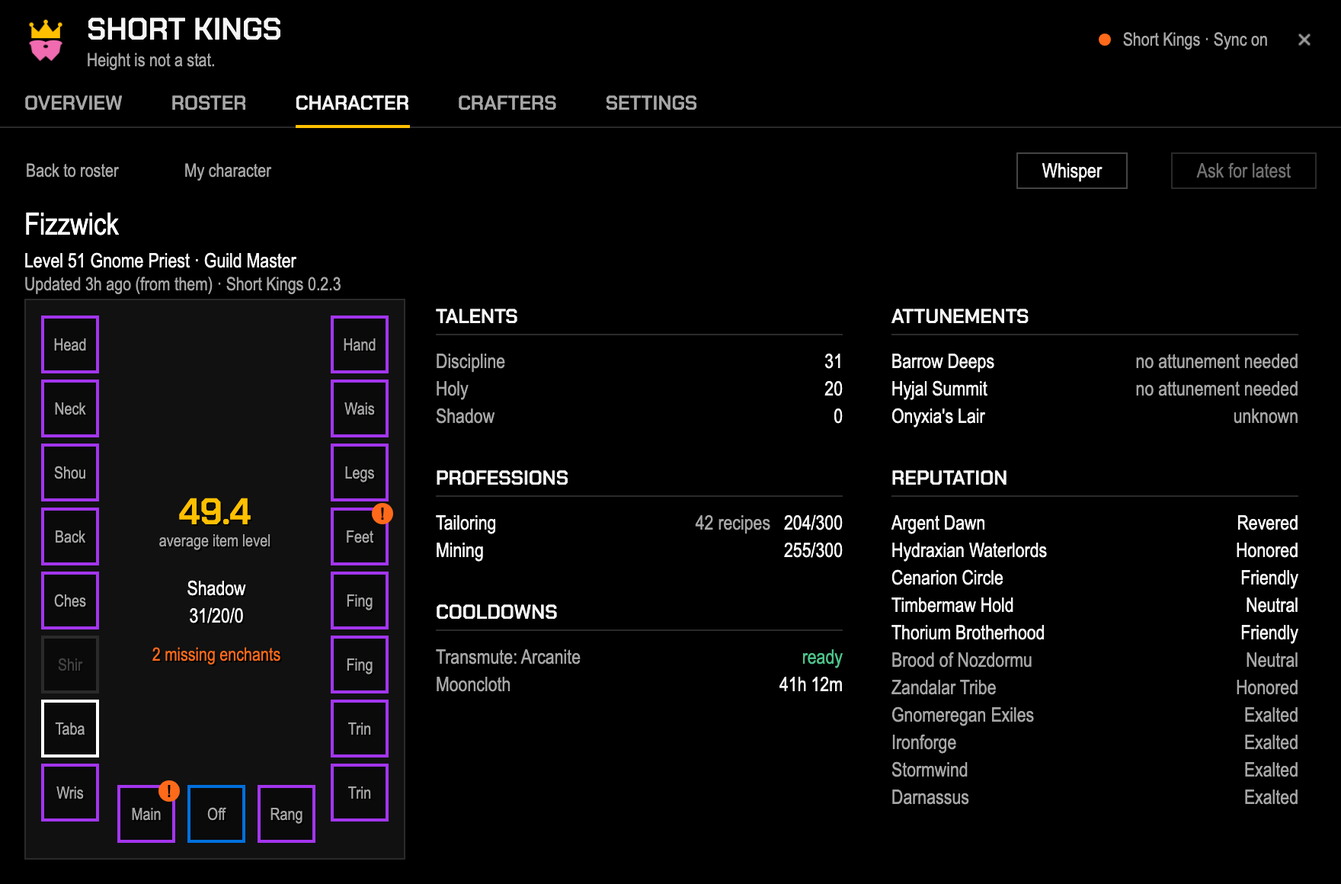
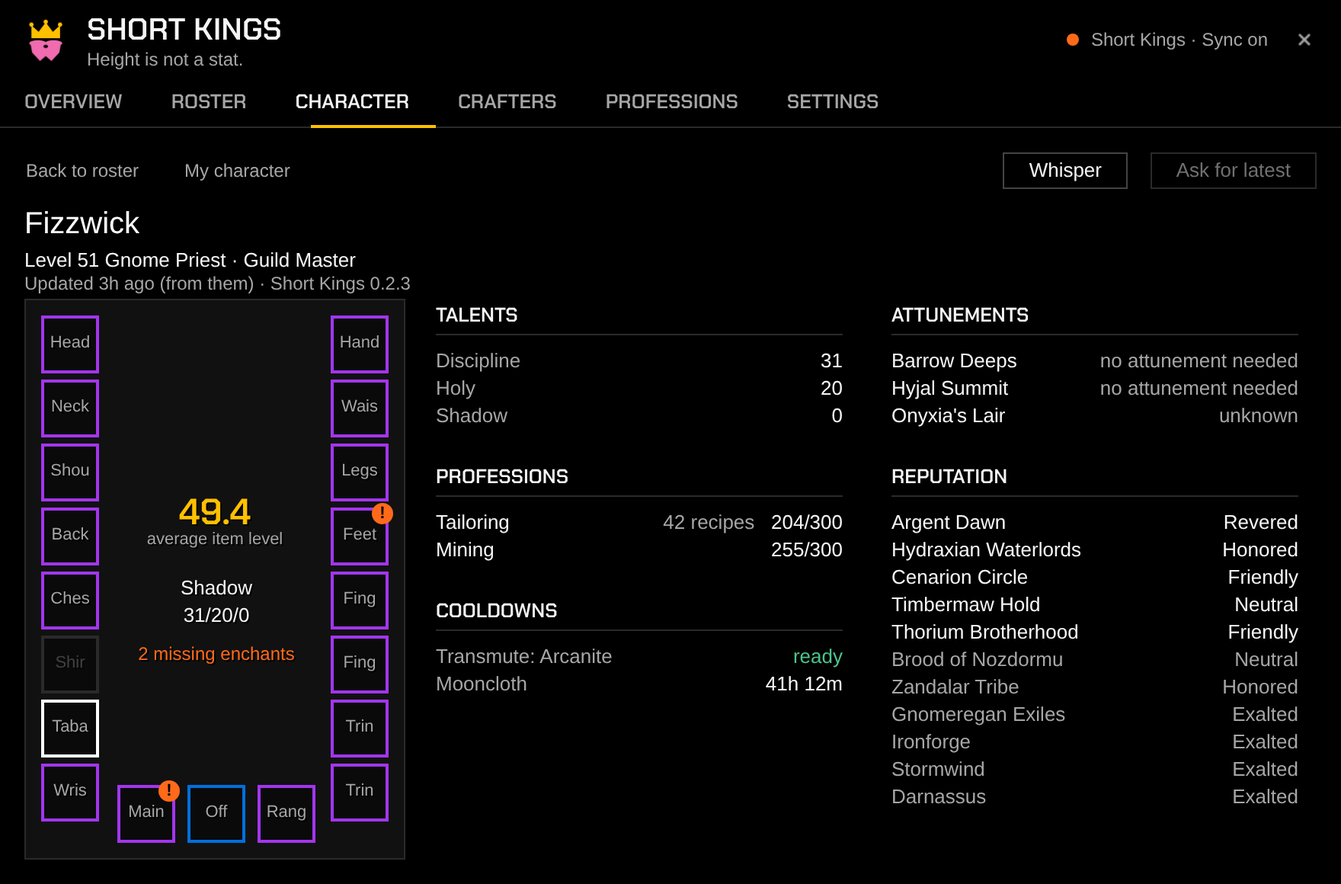
v0.3.0 docs, preview and pictures: Professions tab, reagents, favourites
Claude-Session: https://claude.ai/code/session_01A7mubKGBR11Avqu3i7SrV1

diff --git a/preview/index.html b/preview/index.html
@@ -280,7 +280,7 @@ const SLOT = { 1: "Head", 2: "Neck", 3: "Shoulder", 15: "Back", 5: "Chest", 4: "
 // ---------------------------------------------------------------- state
 const S = { view: "after", screen: "overview", data: "full", scale: 1, open: true, reduce: false, sort: { key: "seen", desc: false },
   search: "", raid: "none", attFilter: "all", groupAlts: true, crafterQuery: "arcanite", recipe: 0, charIdx: 1, menuOpen: false,
-  copy: false, checks: { sync: true, gear: true, recipes: true, tips: true, feed: true, minimap: true, reduce: false, debug: false } };
+  copy: false, checks: { sync: true, gear: true, recipes: true, tips: true, feed: true, nudges: true, minimap: true, reduce: false, debug: false } };
 let G = makeGuild("full");
 
 // ---------------------------------------------------------------- helpers
@@ -495,6 +495,65 @@ function crafters() {
     <div class="side" style="left:492px;right:0;top:36px;bottom:0">${side}</div>`;
 }
 
+// ---------------------------------------------------------------- professions (v0.3)
+const PROF_BOARD = [
+  ["Alchemy", 6, 3, 2, 300, 1, ""], ["Blacksmithing", 4, 2, 1, 300, 2, "Weaponsmith 2, Armorsmith 1"], ["Enchanting", 5, 2, 3, 300, 0, ""],
+  ["Engineering", 3, 1, 1, 300, 4, "Gnomish Engineer 2, Goblin Engineer 1"], ["Leatherworking", 2, 0, 0, 265, 9, "Tribal Leatherworking 1"],
+  ["Tailoring", 5, 2, 2, 300, 0, ""], ["Herbalism", 7, 3, 3, 300, null, ""], ["Mining", 6, 4, 2, 300, null, ""], ["Skinning", 0, 0, 0, 0, null, ""],
+  ["Cooking", 9, 2, 4, 300, 3, ""], ["First Aid", 11, 6, 4, 300, 12, ""], ["Fishing", 4, 1, 1, 275, null, ""]];
+const PROF_CRAFTERS = [["Brambletoe", "MAGE", 300, "addon", "", 0, 1], ["Copperpot", "PRIEST", 300, "online", "", 3, 0], ["Dorna", "WARRIOR", 285, "offline", "alt of Thalgrim", 9, 0],
+  ["Fizzwick", "ROGUE", 262, "offline", "", 21, 0], ["Nettle", "DRUID", 240, "addon", "", 1, 0], ["Pockets", "WARLOCK", 150, "offline", "", null, 0]];
+const PROF_RECIPES = [["Elixir of the Mongoose", "#ffffff", 4], ["Flask of Distilled Wisdom", "#ffffff", 1], ["Flask of the Titans", "#ffffff", 1, 1],
+  ["Greater Fire Protection Potion", "#ffffff", 3], ["Major Healing Potion", "#ffffff", 6], ["Major Mana Potion", "#ffffff", 5, 1], ["Transmute: Arcanite", "#ffffff", 2],
+  ["Transmute: Undeath to Water", "#ffffff", 1], ["Elixir of Giants", "#ffffff", 2]].sort((a, b) => a[0] < b[0] ? -1 : 1);
+const PROF_CDS = [["Transmute: Arcanite", "Copperpot", "PRIEST", "online", 0, "now", 0], ["Mooncloth", "Fizzwick", "ROGUE", "offline", 0, "3d ago", 1],
+  ["Transmute: Arcanite", "Brambletoe", "MAGE", "addon", 2.5, "now", 0], ["Mooncloth", "Nettle", "DRUID", "addon", 47, "4m ago", 0], ["Transmute: Undeath to Water", "Dorna", "WARRIOR", "offline", 70, "2d ago", 1]];
+const star = (on) => on ? `<span class="beard">&#9733;</span> ` : "";
+const recAgo = (d) => d === null ? DASH : `<span class="${d > 7 ? "spark" : "dim"}">${d === 0 ? "now" : d + "d ago"}</span>`;
+function professions() {
+  const none = !G.name || S.data === "empty";
+  const chips = (items, on) => items.map((x) => `<span class="chip ${x[0] === on ? "on" : ""}">${x[1]}</span>`).join("");
+  const nudge = `<div class="abs spark" style="left:0;right:0;top:36px;font-size:12px">Your Tailoring went from 240 to 262 since you last opened it. Open the window to update your recipes.</div>`;
+  if (S.prof) {
+    const ccell = (k, c) => c.key === "n" ? dot(k[3] === "addon" ? "good" : k[3] === "online" ? "text" : "faint") + star(k[6]) + `<span style="color:${CLASS[k[1]]}">${esc(k[0])}</span>${k[4] ? ` <span class="dim">&nbsp;${k[4]}</span>` : ""}`
+      : c.key === "s" ? k[2] : c.key === "p" ? "" : c.key === "r" ? recAgo(k[5]) : btn("Whisper", "small" + (k[3] === "offline" ? " disabled" : ""));
+    const rcell = (r, c) => c.key === "n" ? star(r[3]) + `<span style="color:${r[1]}">${esc(r[0])}</span>` : r[2] === 1 ? `<span class="spark">1</span>` : r[2];
+    return `${btn("All professions", "", 'style="position:absolute;left:0;top:0"')}<div class="abs" style="left:130px;top:3px;font-size:15px">Alchemy</div>
+      <div class="abs dim ell" style="right:0;top:4px;font-size:12px">6 characters, 2 online · ${PROF_RECIPES.length} recipes</div>
+      ${list([{ key: "n", t: "Character", w: 152 }, { key: "s", t: "Skill", w: 50, r: 1 }, { key: "p", t: "Speciality", w: 92 }, { key: "r", t: "Recipes", w: 70, r: 1 }, { key: "b", t: "", w: 64 }],
+        PROF_CRAFTERS, ccell, { click: true, style: "left:0;top:36px;bottom:0;width:440px" })}
+      <div class="abs" style="left:456px;top:36px;display:flex;gap:4px">${chips([["all", "All"], ["one", "Only one crafter"], ["fav", "Favourites"], ["nobody", "Nobody knows"]], "all")}</div>
+      ${list([{ key: "n", t: "Recipe", w: 290 }, { key: "c", t: "Crafters", w: 90, r: 1 }], PROF_RECIPES, rcell, { click: true, style: "left:456px;right:0;top:68px;bottom:0" })}`;
+  }
+  if (S.profView === "cooldowns") {
+    const cell = (r, c) => c.key === "n" ? esc(r[0]) : c.key === "w" ? dot(r[3] === "addon" ? "good" : r[3] === "online" ? "text" : "faint") + `<span style="color:${CLASS[r[2]]}">${esc(r[1])}</span>`
+      : c.key === "l" ? (r[4] === 0 ? `<span class="good">Ready</span>` : r[4] < 24 ? `${Math.floor(r[4])}h ${Math.round((r[4] % 1) * 60)}m` : `${Math.floor(r[4] / 24)}d ${Math.round(r[4] % 24)}h`)
+      : c.key === "a" ? `<span class="${r[6] ? "spark" : "dim"}">${r[5]}</span>` : btn("Whisper", "small" + (r[3] === "offline" ? " disabled" : ""));
+    return `<div class="abs" style="left:0;top:0;display:flex;gap:4px">${chips([["board", "Guild"], ["cooldowns", "Cooldowns"]], "cooldowns")}</div>
+      <div class="abs dim ell" style="right:0;top:4px;font-size:12px">2 ready · 5 cooldowns</div>
+      ${list([{ key: "n", t: "Cooldown", w: 270 }, { key: "w", t: "Crafter", w: 190 }, { key: "l", t: "Ready in", w: 110, r: 1 }, { key: "a", t: "As of", w: 140, r: 1 }, { key: "b", t: "", w: 126 }],
+        none ? [] : PROF_CDS, cell, { click: true, empty: "No profession cooldowns yet.", style: "left:0;top:36px;bottom:0;right:0" })}`;
+  }
+  const cell = (r, c) => {
+    const nobody = r[1] === 0;
+    switch (c.key) {
+      case "n": return nobody ? `<span class="dim">${r[0]}</span>` : r[0];
+      case "c": return nobody ? `<span class="spark">nobody</span>` : r[1];
+      case "m": return nobody ? DASH : r[2];
+      case "o": return nobody ? DASH : r[3] ? `<span class="good">${r[3]}</span>` : `<span class="dim">0</span>`;
+      case "t": return nobody ? DASH : r[4];
+      case "s": return recAgo(r[5]);
+      default: return `<span class="dim">${r[6]}</span>`;
+    }
+  };
+  return `<div class="abs" style="left:0;top:0;display:flex;gap:4px">${chips([["board", "Guild"], ["cooldowns", "Cooldowns"]], "board")}</div>
+    <div class="abs dim ell" style="right:0;top:4px;font-size:12px">${none ? "" : "1 profession nobody has"}</div>
+    ${none ? "" : nudge}
+    ${list([{ key: "n", t: "Profession", w: 170 }, { key: "c", t: "Characters", w: 88, r: 1 }, { key: "m", t: "At 300", w: 70, r: 1 }, { key: "o", t: "Online", w: 70, r: 1 },
+      { key: "t", t: "Top skill", w: 80, r: 1 }, { key: "s", t: "Latest recipes", w: 112, r: 1 }, { key: "x", t: "Specialisations", w: 246 }],
+      none ? PROF_BOARD.map((r) => [r[0], 0, 0, 0, 0, null, ""]) : PROF_BOARD, cell, { click: true, style: `left:0;top:${none ? 36 : 56}px;bottom:0;right:0` })}`;
+}
+
 // ---------------------------------------------------------------- settings
 function settings() {
   const err = S.data === "error";
@@ -503,7 +562,8 @@ function settings() {
   const head = (t) => { h += `<div class="block" style="left:0;top:${y}px;width:${L}px"><div class="bhead"><span class="h display">${t}</span></div></div>`; y += 32; };
   const ck = (k, label) => { h += check(k, label, `position:absolute;left:0;top:${y + 4}px`); y += 28; };
   head("Sharing"); ck("sync", "Share and receive guild data (sync)"); ck("gear", "Share my gear and talents"); ck("recipes", "Share my recipes and cooldowns");
-  y += 8; head("Display"); ck("tips", "Show guild crafters in item tooltips"); ck("feed", "Record guild milestones (Overview)"); ck("minimap", "Show minimap button");
+  y += 8; head("Display"); ck("tips", "Show guild crafters in item tooltips"); ck("feed", "Record guild milestones (Overview)");
+  ck("nudges", "Remind me to reopen profession windows"); ck("minimap", "Show minimap button");
   ck("reduce", "Reduce motion"); ck("debug", "Debug logging in chat");
   h += `<div class="abs" style="left:0;top:${y + 4}px">Window size</div>`; y += 22;
   h += `<div class="abs" style="left:0;top:${y}px;display:flex;align-items:center;gap:4px">${[70, 80, 90, 100, 110, 120, 130].map((v) =>
@@ -527,8 +587,8 @@ function settings() {
 }
 
 // ---------------------------------------------------------------- window
-const TABS = [["overview", "Overview"], ["roster", "Roster"], ["character", "Character"], ["crafters", "Crafters"], ["settings", "Settings"]];
-const RENDER = { overview, roster, character, crafters, settings };
+const TABS = [["overview", "Overview"], ["roster", "Roster"], ["character", "Character"], ["crafters", "Crafters"], ["professions", "Professions"], ["settings", "Settings"]];
+const RENDER = { overview, roster, character, crafters, professions, settings };
 function windowHTML() {
   const err = S.data === "error", paused = err || !G.name || S.data === "loading";
   const why = err ? "combat" : "roster not loaded";
@@ -656,7 +716,7 @@ function seg(id) {
 try { Object.assign(S, JSON.parse(localStorage.getItem("skPreview") || "{}")); } catch (e) { /* ignore */ }
 // ?screen=roster&data=worst&view=before&raid=ony  (and &shot=1 for the README pictures: window only, no chrome)
 const Q = new URLSearchParams(location.search);
-for (const k of ["screen", "data", "view", "raid"]) if (Q.get(k)) S[k] = Q.get(k);
+for (const k of ["screen", "data", "view", "raid", "prof", "profView"]) if (Q.get(k)) S[k] = Q.get(k);
 const SHOT = Q.get("shot");
 if (SHOT) {
   document.body.classList.add("shot"); S.view = SHOT === "compare" ? "before" : "after"; S.reduce = true;

diff --git a/docs/mockups/render.js b/docs/mockups/render.js
@@ -21,6 +21,9 @@ const SHOTS = {
   attunement: ["shot=1&screen=roster&data=full&raid=ony", W, H],
   character: ["shot=1&screen=character&data=full", W, H],
   crafters: ["shot=1&screen=crafters&data=full", W, H],
+  professions: ["shot=1&screen=professions&data=full", W, H],
+  "professions-one": ["shot=1&screen=professions&data=full&prof=171", W, H],
+  cooldowns: ["shot=1&screen=professions&data=full&profView=cooldowns", W, H],
   settings: ["shot=1&screen=settings&data=full", W, H],
   "before-after": ["shot=compare&screen=overview&data=full", 2 * W + 72, H + 84],
   palette: ["shot=palette", 1200, 484],

diff --git a/README.md b/README.md
@@ -42,7 +42,8 @@
 | 🏰 **Overview** | The guild at a glance: who's around, raid readiness, data health, professions, recipes and recent milestones |
 | 👥 **Roster** | The whole guild in one sortable, searchable list, with alts folded under mains and a raid-attunement view |
 | 🛡 **Character** | Anyone's gear, talents, professions, cooldowns, attunements and reputations |
-| ⚒ **Crafters** | Search an item or recipe and see who in the guild can make it, online first |
+| ⚒ **Crafters** | Search an item or recipe and see who in the guild can make it, online first, with its reagents and your bag counts |
+| 🧪 **Professions** | Every profession in the guild, each profession's crafters and recipes, everyone's cooldowns, specialisations and favourites |
 | ⚙ **Settings** | Sharing and privacy switches, display options, window size, tools and a live status read-out |
 | 🧨 **Everywhere** | `/sk`, a minimap button, "Crafted by" lines on item tooltips, chat reminders and a copyable debug report |
 
@@ -106,13 +107,30 @@ Onyxia's Lair, Forever's first wave) to see who's attuned:
 - **Results** (up to 200): the item's icon, its name in quality colour, the profession, and how many crafters there are (and how many online). Hover for the real item tooltip; click to pick it.
 - **Side panel:** every crafter, online first, then by skill, with a status dot, their skill, *on Gillybean* when they're on an alt (Whisper goes there) or *alt of X*, and a **Whisper** button. Long item names wrap rather than being cut off.
 - **Post to guild chat** (gold) types "[Item] can be made by: A, B, C" into your chat box; you press Enter. **Copy** gives the list as plain text.
+- **Reagents** under the crafter list: icon, name, how many, and how many you have in your bags (green when you have enough). Read from your own game, so they show once you've opened that profession's window; never sent to anyone.
+- **Favourites:** right-click a result or a crafter to star it (a pink star). The **Favourites** chip lists only starred recipes; starred crafters come first among the same status. Saved on your computer only.
 - Recipes come from each crafter's last visit to their profession window. While item names load from the game, placeholder rows show where results will appear.
+
+### 🧪 Professions
+<p align="center"><img src="docs/images/professions.png" alt="Professions tab, guild board" width="100%"></p>
+
+- **Guild board:** one row per profession (crafting first, then gathering, then Cooking, First Aid and Fishing), including ones **nobody** has. Characters, how many are at 300, how many online, the top skill, when recipes were last recorded (orange after a week) and specialisations. Click a row to open that profession.
+- **A reminder line** when your skill has gone up 15 or more since you last opened that profession's window ("Your Tailoring went from 240 to 262…"). In chat it says it at most once every three days; you can turn that off in Settings.
+
+<p align="center"><img src="docs/images/professions-one.png" alt="One profession" width="100%"></p>
+
+- **One profession:** everyone with it (status dot, star, *alt of X*, skill, specialisation, "recipes recorded 3d ago" in orange after a week, **Whisper**) and every recipe known in the guild with its crafter count (a lone crafter in orange). Filters: **All**, **Only one crafter**, **Favourites**, and **Nobody knows** (recipes the game's window lists that nobody has learned, shown only once the game has listed some). Hover a recipe for its reagents; click to open it in Crafters; right-click to star it.
+
+<p align="center"><img src="docs/images/cooldowns.png" alt="Cooldown board" width="100%"></p>
+
+- **Cooldowns:** everyone's profession cooldowns (transmutes, Mooncloth…), ready first, then soonest. Shows who, how long, and **as of** when we last heard from them (orange after a day: a cooldown only updates while its owner is online). **Whisper** when they're on.
+- **Specialisations** (Gnomish/Goblin Engineer, Dragonscale/Elemental/Tribal Leatherworking, Armorsmith/Weaponsmith and the master smiths) are read from your spellbook. A spell only counts when the game's own name for it matches, so a wrong ID can never mislabel anyone.
 
 ### ⚙ Settings
 <p align="center"><img src="docs/images/settings.png" alt="Settings tab" width="100%"></p>
 
 - **Sharing:** *Share and receive guild data* (sync on or off), *Share my gear and talents*, *Share my recipes and cooldowns*.
-- **Display:** *Show guild crafters in item tooltips*, *Record guild milestones*, *Show minimap button*, **Reduce motion**, *Debug logging in chat*.
+- **Display:** *Show guild crafters in item tooltips*, *Record guild milestones*, *Remind me to reopen profession windows*, *Show minimap button*, **Reduce motion**, *Debug logging in chat*.
 - **Window size:** 70% to 130%.
 - **Tools:** *Rescan my character*, *Sync now*, *Reset window position*, *Debug report*.
 - **Status:** version, guild, whether sync is running or paused (and why), whether you may send, message counts, Lua errors caught, when your data last updated, and which profession windows you still need to open.
@@ -123,7 +141,7 @@ Onyxia's Lair, Forever's first wave) to see who's attuned:
 - **The window** opens on the Overview the first time, then on your last tab. Drag it by the title bar; it remembers where you left it. **Esc** closes it. The title bar shows the crest, your guild and the sync status.
 - **Automatic collection** on every character you play: gear, item level, talents, reputations, professions, recipes (when you open the profession window), cooldowns, attunements and your other characters.
 - **"Crafted by" on item tooltips:** hover any item to see "Short Kings: Bramble (online), Dabble +2 more". Online crafters first, at most three names.
-- **Chat reminders** for profession windows still to open, a newer Short Kings, and trial accounts that can't share.
+- **Chat reminders** for profession windows still to open (and, rarely, ones to reopen after your skill went up), a newer Short Kings, and trial accounts that can't share.
 - **`/sk debug`** opens a copyable report of what the addon can see, starting with the live-client checks and the profession checks for v0.3 (unlearned recipes, recipe categories, reagents, specialisations), and ending with the last Lua errors it caught. **Send it when something looks wrong.**
 
 ### 🔒 Under the hood
@@ -307,7 +325,7 @@ The full design, data format and merge rules are in [PLAN.md](PLAN.md).
 - [x] **v0.2.5**: first in-game test (5 Nov): sync switched back on, enchant check at level 60, security fixes
 - [x] **v0.2.6**: hotfix, no more false "send errors"
 - [x] **v0.2.7**: `/sk debug` profession checks (what the game shows, before v0.3 is built)
-- [ ] **v0.3 Professions**: guild coverage, crafters and recipes per profession, cooldown board, reagents, favourites
+- [ ] **v0.3.0 Professions** (built, waiting for the in-game test): guild coverage, crafters and recipes per profession, cooldown board, specialisations, reagents, favourites, reminders
 - [ ] **In-game test round** with guildmates (TESTING.md), then fixes
 - [ ] **v0.4**: **Raids**, built on the guild calendar: sign-ups, roles, line-up with attunement and readiness, reminders, invite-all (before raids open on 9 Dec)
 - [ ] **v0.5**: craft requests, a short status line, lockout board

diff --git a/CLAUDE.md b/CLAUDE.md
@@ -145,7 +145,9 @@ Core/     Init (events, timers, modules), Log (+ error capture: SK:Safe,
           SK:RecordError), Compat, DB (SavedVariables, pruning), Identity
           (roster, sender→GUID, Status dots, GUID-stability check), Alts
           (mutual-link groups), CraftIndex (recipe/item → crafters, async
-          names), Export (plain text for Copy), Feed (local milestones,
+          names), Favourites (local stars), Reagents (GetRecipeSchematic
+          cache, local), ProfBoard (numbers for the Professions tab),
+          Export (plain text for Copy), Feed (local milestones,
           never synced), Overview (numbers for the Overview tab)
 Data/     Professions, Attunements (quest IDs), Factions, Enchants
 Collect/  Character, Talents, Professions (recipe scan), Reputation,
@@ -156,9 +158,11 @@ UI/       Theme (EVERY colour/font/size/spacing/motion value), Motion
           Tab, Chip, Check, Menu, SearchBox, List, TextPanel, Block, Sheet),
           MainFrame, OverviewTab (first tab, three spec-sheet columns),
           RosterTab (+ raid filter, Oldest first), CharacterTab (+ Ask for
-          latest), CraftersTab, SettingsTab, DebugWindow, Minimap, Tooltip
+          latest), CraftersTab (+ reagents, Favourites chip), ProfessionsTab
+          (board / one profession / cooldowns), SettingsTab, DebugWindow,
+          Minimap, Tooltip
 Media/    Fonts.xml (Arial Narrow families + CJK fallback), Fonts/ (Chakra
-          Petch, OFL), Textures/ (crest, arrow, close, dot, ring .tga)
+          Petch, OFL), Textures/ (crest, arrow, close, dot, ring, star .tga)
 preview/  browser mock-up of every window (theme.css/js generated)
 tools/    textures.js (draws Media/Textures), preview-tokens.js
 Libs/     vendored Ace3 bits, LibSerialize, LibDeflate; LDB + LibDBIcon via .pkgmeta
@@ -222,11 +226,13 @@ messages → sender ignored for the session).
 - **Next (5 Nov):** **v0.3 Professions**: `docs/prompts/next-v0.3-professions.md`
   (the guild says professions matter most; Raids moves to v0.4, still before
   9 Dec). v0.2.6 hotfix is on `main` (5 Nov); the owner publishes the release.
-  **Step 1 in progress (5 Nov):** v0.2.7 probes built on
-  `claude/affectionate-archimedes-tirbrl` (`/sk debug` block "Profession
-  checks for v0.3", `Commands.ProfessionProbes`). Plan draft in **PLAN.md
-  section 11**, waiting for: the owner's v0.2.7 `/sk debug` (window open and
-  closed), the guild's top 3 features, and an OK. Don't build v0.3 before that.
+  **v0.2.7** (probes only: `/sk debug` block "Profession checks for v0.3",
+  `Commands.ProfessionProbes`) is on `main`; the tag push dropped, so the
+  owner publishes the release on the website. **v0.3.0 Professions is built**
+  on `claude/affectionate-archimedes-tirbrl` (owner said "do all of them";
+  reminders must stay rare). Not released, not tested in game. Waiting for the
+  owner's v0.2.7 `/sk debug` answers (record them here), then TESTING 87–95.
+  Plan and what was left out: **PLAN.md section 11**.
 - Earlier plan: PLAN.md **section 10, "Once Forever is live"**: the in-game test
   gate (TESTING.md, `/sk debug` "Live-client checks"), its decision table,
   fixes only (now **v0.2.5**: v0.2.3 = new look, v0.2.4 = tagline). Raids is now
@@ -247,6 +253,19 @@ messages → sender ignored for the session).
     (event approach, not the Item mixin), at most 200 requests per search.
   - "Post to guild chat" uses `ChatFrameUtil.OpenChat("/g …")`; never
     `SendChatMessage`.
+- Decisions in v0.3.0:
+  - Specialisation detection: known (`C_SpellBook.IsSpellKnown`) **and**
+    (`status = "ok"` or the client's spell name equals the Data name). Synced
+    as `profs[skillLine].specs` (spell IDs); display only for IDs in
+    `SK.Data.SPEC_BY_SPELL`.
+  - Reagents are local only (`ShortKingsDB.reagents`, keyed by game build),
+    learned during scans and on demand. Never in profiles.
+  - Favourites: `ShortKingsDB.favourites` (local). Right-click to star.
+  - Nudges: `Professions.NUDGE_POINTS` 15, `NUDGE_EVERY` 3 days, once per
+    session, `settings.profNudges`; scan ranks in `ShortKingsDB.scanRank`.
+  - "At 300" uses `SK.Data.SKILL_CAP` (original-game cap; confirm in game).
+  - Clicking a recipe in Professions opens it in Crafters
+    (`CraftersTab:ShowRecipe`), including recipes nobody knows.
 - Decisions in v0.2.2:
   - Overview numbers come from `Core/Overview.lua` (pure); attunement logic
     lives in `Collect/Attunements.lua` (`Att.StateOf`), shared by Roster,

diff --git a/PLAN.md b/PLAN.md
@@ -402,7 +402,8 @@ Crafters and tooltips, Copy, the Overview's numbers and milestones.
    build). When you have CurseForge or Wago accounts, releases can go there
    too (P5); I prepare it, you do the upload.
 3. **v0.3 Professions** (moved first on 5 Nov: the guild says professions
-   matter most). Plan: "v0.3 Professions plan" below. Prompt:
+   matter most). Built 5 Nov (v0.3.0), waiting for the in-game test. Plan:
+   section 11. Prompt:
    `docs/prompts/next-v0.3-professions.md`.
 4. **v0.4.0 Raids, read-only** (target: before raids open on 9 Dec): raid
    events from the calendar, who signed up with role, spec, item level and
@@ -423,11 +424,16 @@ Crafters and tooltips, Copy, the Overview's numbers and milestones.
 - **Horde members**: if there are any, their Onyxia chain is different.
 - What players ask for in the first two weeks. Real requests beat any plan.
 
-## 11. v0.3 Professions plan (draft 5 Nov 2026, **waiting for the owner's OK**)
+## 11. v0.3 Professions plan (5 Nov 2026, **approved**: "do all of them")
 
-Nothing below gets built until (a) the owner sends a `/sk debug` from
-**v0.2.7** with a profession window open and closed, and (b) the owner
-picks the guild's top 3 and says OK.
+The owner approved all six features on 5 Nov, before the v0.2.7 answers,
+and asked that the "reopen" reminders are rare. So v0.3.0 is built to
+check each unknown at runtime and hide what the game doesn't support:
+"Nobody knows" appears only if the window lists unlearned recipes;
+reagents show only if the game returns them; a specialisation counts only
+if the game's own spell name matches. Once the v0.2.7 answers arrive,
+record them in CLAUDE.md and adjust (e.g. set confirmed spec IDs to
+`status = "ok"`).
 
 ### Step 1 facts (v0.2.7 probes; answers go into CLAUDE.md)
 | Question | Probe line in `/sk debug` | If yes | If no |
@@ -456,11 +462,15 @@ classicdb.ch (two sources); the game still has to confirm them.
 5. Specialisations (only once the probe confirms the IDs).
 6. Freshness nudges ("Tailoring went from 240 to 262, open the window").
 
-### What goes in v0.3.0 vs later
-- **v0.3.0:** the owner's top 3 from the list above, plus favourites and
-  freshness nudges if they are small once the tab exists. No new message
-  types; guildmates on v0.2.5+ keep working. A new `spec` profile field only
-  if specialisations are in (with a `Merge.FIELDS` check).
+### What went into v0.3.0 (built 5 Nov, not released)
+- All six above. No new message types; guildmates on v0.2.5+ keep working.
+  New profile field `profs[skillLine].specs` (list of up to 4 spell IDs,
+  checked in `Merge.FIELDS`; older versions ignore it). Favourites,
+  reagents and nudge state are local only.
+- Reminders: +15 skill since the last scan; chat at most once per session
+  and once every 3 days; Settings toggle; also shown on the tab.
+- Not done: tooltip specialisation lines (item 8 of the prompt), because
+  which item needs which specialisation isn't verified data.
 - **v0.3.1 (only if asked):** craft requests (D1, a new message type).
 - **Later:** shopping list (D6), camp planner (P6) if the categories show
   camp objects, "where to get it" (D4) only with a verified data source.

diff --git a/TESTING.md b/TESTING.md
@@ -259,8 +259,39 @@ in game if anything looks different and send it.
 86. [ ] If you see Blueprints or camp objects in a profession window, check
         they appear under "Recipe categories" with their names.
 
+## v0.3.0 additions (Professions)
+
+87. [ ] **Professions** tab (after Crafters) shows every profession; ones
+        nobody has say **nobody** in orange. Your own professions count.
+88. [ ] Click **Alchemy** (or any profession someone has): crafters on the
+        left with skill and "recipes recorded … ago"; recipes on the right
+        with crafter counts. **All professions** goes back.
+89. [ ] Filters: **Only one crafter** and **Favourites** change the recipe
+        list. **Nobody knows** appears only if your window lists unlearned
+        recipes (tell me if it's missing).
+90. [ ] Click a recipe: the **Crafters** tab opens on it. Under the crafter
+        list, **Needs:** shows its reagents with "(have N)" from your bags.
+        Tell me if it says reagents aren't available for a recipe you know.
+91. [ ] Right-click a recipe, then a crafter: both get a pink **star**.
+        Crafters → **Favourites** chip lists only starred recipes.
+        `/reload`: stars are still there.
+92. [ ] **Cooldowns** (top of the Professions tab): if you or a guildmate
+        has a cooldown recipe (a transmute, Mooncloth), it's listed with
+        "Ready" or the time left, and "as of".
+93. [ ] If you have Engineering, Leatherworking or Blacksmithing with a
+        specialisation, it shows on your row (Professions → that profession)
+        and on the board. Tell me if it's missing.
+94. [ ] Level a crafting profession by 15+ points **without** opening its
+        window, then `/reload`: about 90 s later chat says "Your … went from
+        … to …" once. It doesn't repeat for three days. The same line shows
+        on the Professions tab until you open that window.
+        Settings → untick **Remind me to reopen profession windows**: no
+        chat line.
+95. [ ] With a guildmate on v0.2.6 or v0.2.7: you still see each other's
+        data (the new specialisation field doesn't upset older versions).
+
 ## Known gaps in v0.1
 
-- No Professions or Raids tabs yet (rest of v0.2, and v0.3).
+- No Raids tab yet (v0.4).
 - Onyxia's quest ID is the Classic one (6502, Alliance). Horde characters count only via the amulet in their bags.
 - The title bar's ember animation comes in v0.4.

diff --git a/CHANGELOG.md b/CHANGELOG.md
@@ -1,5 +1,34 @@
 # Changelog
 
+## v0.3.0 (not released yet): Professions
+
+A new **Professions** tab, after Crafters. Works alongside guildmates on
+v0.2.5 and later (no new message types).
+
+- **Guild board:** every profession, crafting first, then gathering, then
+  secondary, including the ones nobody has. Characters, how many at 300,
+  online now, top skill, when recipes were last recorded, and
+  specialisations. Click a row to open that profession.
+- **One profession:** its crafters (status, alt of, skill, specialisation,
+  how old their recipe list is, orange after a week, Whisper) and its
+  recipes with crafter counts. Filters: All, Only one crafter, Favourites,
+  and Nobody knows (only when the game's window lists unlearned recipes).
+  Click a recipe to open it in Crafters.
+- **Cooldown board:** everyone's profession cooldowns, ready first, with
+  how long ago we last heard from that player (orange after a day).
+- **Specialisations** from the original game (Engineering, Leatherworking,
+  Blacksmithing), read from your spellbook. A spell only counts when the
+  game's own name for it matches, so nobody gets a wrong label. Shared as a
+  small new field that older versions simply ignore.
+- **Reagents** in the Crafters panel and recipe tooltips, with how many you
+  have in your bags. Read from your own game and kept on your computer;
+  never sent.
+- **Favourites:** right-click a recipe or crafter to star it. A Favourites
+  filter in Crafters and Professions. Saved on your computer only.
+- **Reminder to reopen a profession window** when your skill has gone up 15
+  or more since you last opened it: on the tab, and in chat at most once
+  every three days. Can be turned off in Settings.
+
 ## v0.2.7 (5 Nov 2026): profession checks
 
 Nothing changes in how the addon works. `/sk debug` gets a new block,
